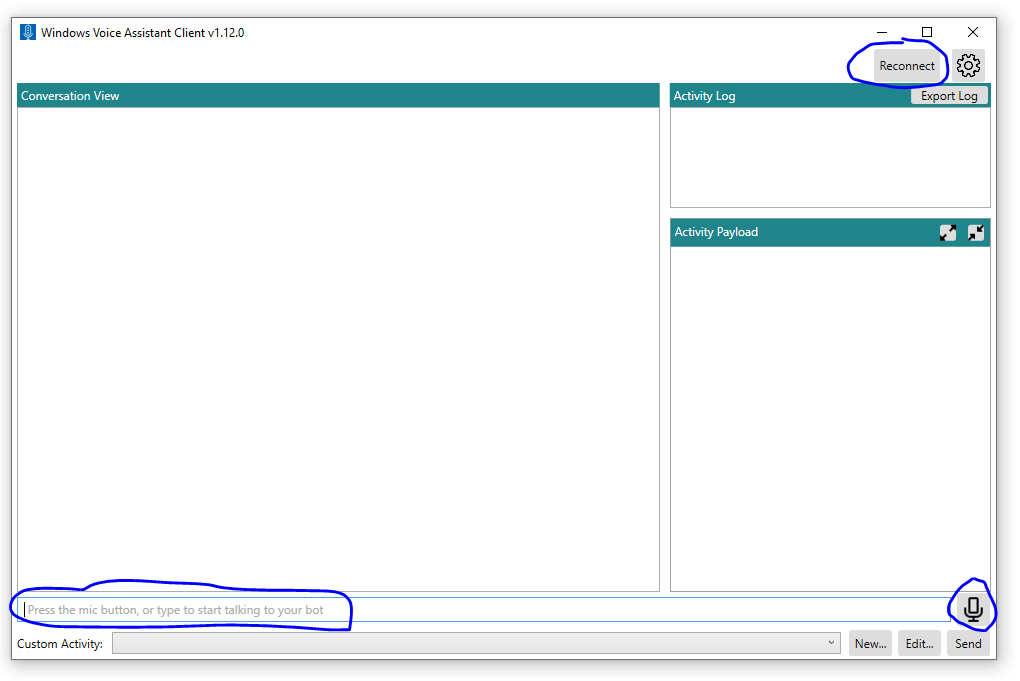
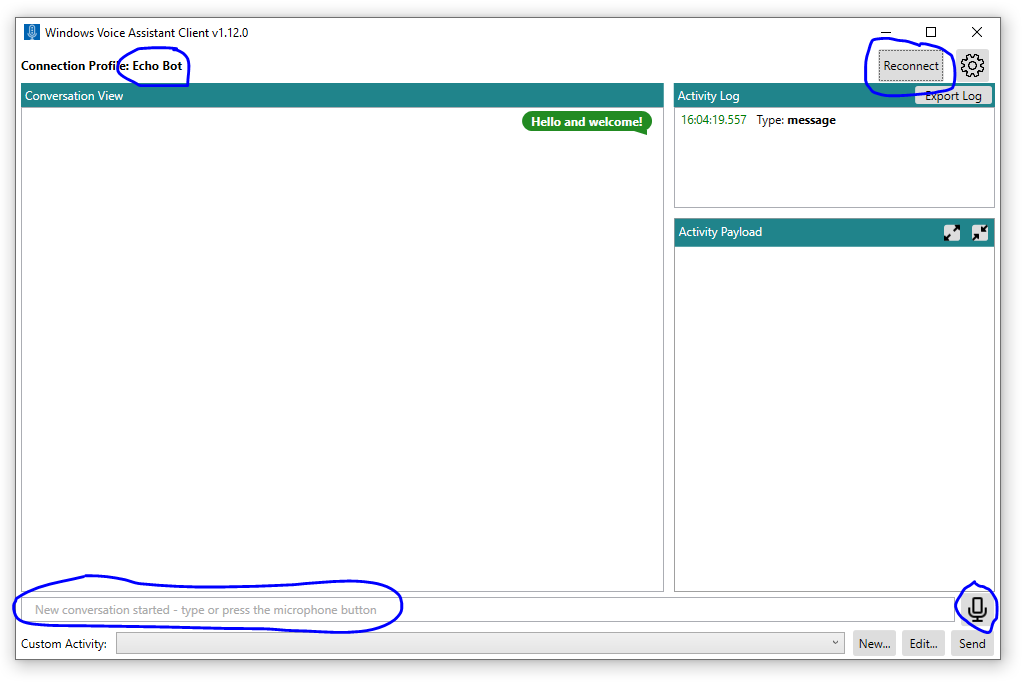
update

Changed region(s): [[0.0, 0.0308, 1.0, 0.9868], [0.8206, 0.0308, 0.9725, 0.1542]]

diff --git a/clients/csharp-wpf/README.md b/clients/csharp-wpf/README.md
@@ -55,9 +55,9 @@ Let's review the hardware, software, and subscriptions that you'll need to use t
     - Press _Save and Apply Profile_ when you're done.
     - Your entries will be saved under this profile name and will be available when you launch the app again.
 ![Setting page](docs/media/SettingsPage.png)  
+1. Press **Reconnect**. The application will try to connect to your bot via Direct Line Speech channel, and your connection profile name will
+be shown at the top. The message **New conversation started -- type or press the microphone button** will appear below the text bar if the connection succeeded.
 ![Main Page](docs/media/MainPage.png)
-1. Press **Reconnect**. The application will try to connect to your bot via Direct Line Speech channel.
-The message **New conversation started -- type or press the microphone button** will appear below the text bar if the connection succeeded.
 1. You'll be prompted to allow microphone access. If you want to use the microphone, allow access.
 1. Press the microphone icon to begin recording. While speaking, intermediate recognition results will be shown in the application. The microphone icon will turn red while recording is in progress. It will automatically detect end of speech and stop recording.
 1. If everything works, you should see your bot's response on the screen and hear it speak the response. You can click on lines in the **Activity Log** window to see the full activity payload from the bot in JSON.
